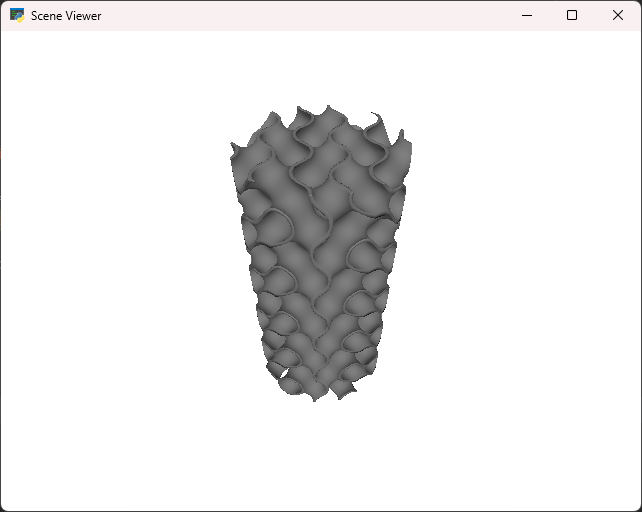
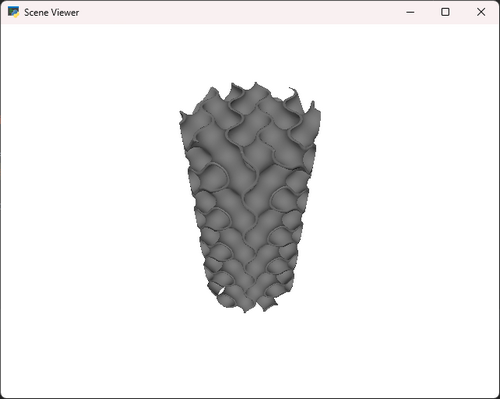
add qrcode tutorial

Changed region(s): [[0.0, 0.0, 1.0, 1.0], [0.06, 0.0301, 0.15, 0.0602]]

diff --git a/tutorial/qrcode.py b/tutorial/qrcode.py
@@ -1,0 +1,74 @@
+import matplotlib.pyplot as plt
+import numpy as np
+from voxelator.convertors import voxel2trimesh, trimesh2stl, img2voxel
+from voxelator.operators import padding, blur
+from voxelator.display import display_trimesh
+from jsonargparse import CLI
+from typing import Optional
+import os.path as path
+import trimesh
+
+def qrcode2stl(
+    img_filepath: str,
+    stl_black: Optional[str] = None,
+    stl_white: Optional[str] = None,
+    size: float = -1.0,
+    depth: float = 0.6,
+    gap: float = 0.2,
+    plate_black: bool = False,
+    plate_depth: float = 1.4,
+    verbose: bool = False
+):
+    """
+    create a physical (stl) qrcode from an image. Assume the QRCode is black over white background.
+    size: size o the biggest side in stl unit (mm). If -1, assume image is 96 px/inch
+    depth: depth in stl unit (mm)
+    gap: size of the gap between white and black mesh in stl unit (mm)
+    """
+    voxel_grid = img2voxel(img_filepath)
+    image_size_voxels = voxel_grid.shape
+    if stl_black is None:
+        stl_black = path.splitext(img_filepath)[0] + '_w.stl'
+    if stl_white is None:
+        stl_white = path.splitext(img_filepath)[0] + '_b.stl'
+    if size < 0:
+        # guess size from image definition assuming 4 pixel / mm
+        size = image_size_voxels[0] / 4.
+
+    # compute voxel / mm scale
+    if image_size_voxels[0] >= image_size_voxels[1]:
+        voxel_per_mm = image_size_voxels[0]/size
+    if image_size_voxels[0] < image_size_voxels[1]:
+        voxel_per_mm = image_size_voxels[1]/size
+    # compute depth in voxels
+    depth_voxel = int(np.ceil(depth * voxel_per_mm))
+    depth_voxel = depth_voxel - depth_voxel % 2  # make it even number
+    if depth_voxel < 1:
+        raise ValueError('depth should be positive')
+    gap_voxel = int(np.ceil(gap * voxel_per_mm))
+    voxel_grid = np.concatenate([voxel_grid] * depth_voxel, axis=2)
+    if plate_depth > 0:
+        # 1 = white 0 = black
+        plate = np.empty((image_size_voxels[0], image_size_voxels[1], int(plate_depth*voxel_per_mm)))
+        plate.fill(0. if plate_black else 1.0)
+        voxel_grid = np.concatenate([plate, voxel_grid], axis=2)
+    voxel_grid = blur(voxel_grid=voxel_grid, size=gap_voxel * 2)
+
+    voxel_grid_black = padding(1.0 - voxel_grid, padding_size=1, padding_value=1.0)
+    mesh_black = voxel2trimesh(voxel_grid_black, level=0.25)
+    voxel_grid_white = padding(voxel_grid, padding_size=1, padding_value=1.0)
+    mesh_white = voxel2trimesh(voxel_grid_white, level=0.25)
+    trimesh2stl(stl_black, mesh_black, scale=1./voxel_per_mm)
+    trimesh2stl(stl_white, mesh_white, scale=1./voxel_per_mm)
+    if verbose:
+        all_mesh = trimesh.util.concatenate([mesh_black, mesh_white])
+        display_trimesh(all_mesh)
+
+
+def qrcode_cli():
+    CLI(qrcode2stl)
+
+
+if __name__ == '__main__':
+    qrcode_cli()
+

diff --git a/voxelator/convertors.py b/voxelator/convertors.py
@@ -1,22 +1,24 @@
+import matplotlib.pyplot as plt
 import numpy as np
 import skimage
-from typing import Tuple
+from typing import Tuple, Optional
 import trimesh
-# import open3d as o3d
-from rich.progress import track
+from PIL import Image, ImageOps
 
 
 def voxel2trimesh(
         voxel_grid: np.ndarray,
         level: float = 0.0,
         scale: float = 1.0,
-        center: bool = True
+        center: bool = False
 ) -> Tuple:
-    # Use marching cubes to obtain the surface mesh
+    """
+    Convert a voxel grid to a mesh (vertices, faces, normals)
+    It uses marching cubes algorithm to obtain the surface mesh.
+    """
     vertices, faces, normals, _ = skimage.measure.marching_cubes(
         voxel_grid,
-        level=level,
-        spacing=(1, 1, 1)
+        level=level
     )
 
     # apply scale
@@ -27,16 +29,14 @@ def voxel2trimesh(
     return mesh
 
 
-# def trimesh2o3d(
-#         mesh
-# ):
-#     # Convert to Open3D mesh
-#     o3d_mesh = o3d.geometry.TriangleMesh()
-#     o3d_mesh.vertices = o3d.utility.Vector3dVector(mesh.vertices)
-#     o3d_mesh.triangles = o3d.utility.Vector3iVector(mesh.faces)
-#     # Optionally, compute vertex normals for better visualization
-#     o3d_mesh.compute_vertex_normals()
-#     return o3d_mesh
+def img2voxel(
+    img_filepath: str
+):
+    img = Image.open(img_filepath)
+    img = ImageOps.grayscale(img)
+    voxel_grid = np.array(img).astype(float) / 255.
+    voxel_grid = np.expand_dims(voxel_grid, axis=2)
+    return voxel_grid
 
 
 def trimesh2stl(

diff --git a/voxelator/arr2stl.py b/voxelator/arr2stl.py
@@ -1,0 +1,43 @@
+import numpy as np
+from voxelator.operators import padding
+from voxelator.convertors import voxel2trimesh, trimesh2stl, img2voxel
+from voxelator.display import display_trimesh
+from jsonargparse import CLI
+from typing import Optional
+import os.path as path
+
+
+def arr2stl(
+    arr_filepath: str,
+    stl_filepath: Optional[str] = None,
+    level: float = 0.5,
+    scale: float = 1.0,
+    background: Optional[float] = 0.1,
+    verbose: bool = False
+):
+    if stl_filepath is None:
+        stl_filepath = path.splitext(arr_filepath)[0] + '.stl'
+    input_ext = path.splitext(arr_filepath)[1].lower()
+    voxel_grid = None
+    if input_ext == '.png':
+        voxel_grid = img2voxel(arr_filepath)
+    if input_ext == '.npy':
+        voxel_grid = np.load(voxel_grid)
+    if background is not None:
+        background = np.ones_like(voxel_grid) * float(background)
+        voxel_grid = np.concatenate([background, voxel_grid], axis=2)
+
+    voxel_grid = padding(voxel_grid, padding_size=1, padding_value=2.0)
+    mesh = voxel2trimesh(voxel_grid, level=level, scale=(1, 1, scale))
+    trimesh2stl(stl_filepath, mesh)
+    if verbose:
+        display_trimesh(mesh)
+
+
+def arr2stl_cli():
+    CLI(arr2stl)
+
+
+if __name__ == '__main__':
+    arr2stl_cli()
+

diff --git a/tutorial/totem.py b/tutorial/totem.py
@@ -13,7 +13,8 @@ def create_totem(
     stl: Optional[str] = None,
     radius_mm: float = 50.,
     definition: int = 100,
-    thickness: float = 0.4
+    thickness: float = 0.4,
+    verbose: bool = False
 ):
     grid_size = np.array([1, 1, 2]) * definition + 1
     gyroid_shift = 0, np.pi/2, 0
@@ -28,7 +29,7 @@ def create_totem(
     mesh = mesh.intersection(cylinder)
     if stl is not None:
         trimesh2stl(stl, mesh)
-    if stl is None:
+    if verbose:
         display_trimesh(mesh)
 
 

diff --git a/voxelator/operators.py b/voxelator/operators.py
@@ -1,4 +1,5 @@
 import numpy as np
+import scipy
 from typing import Tuple, Union
 
 
@@ -15,3 +16,16 @@ def sigmoid(
     voxel_grid
 ):
     return 1. / (1. + np.exp(-voxel_grid))
+
+
+def blur(
+    voxel_grid: np.ndarray,
+    size: int = 10
+):
+    k = np.ones(size) / size
+    # Convolve over all three axes in a for loop
+    voxel_grid = voxel_grid.copy()
+    for i in range(3):
+        voxel_grid = scipy.ndimage.convolve1d(voxel_grid, k, axis=i)
+
+    return voxel_grid

diff --git a/tutorial/sponge.py b/tutorial/sponge.py
@@ -14,7 +14,7 @@ def create_sponge(
     radius: float = 50.,
     definition: int = 100,
     thickness: float = 0.3,
-    display: bool = True
+    verbose: bool = False
 ):
     grid_size = np.array([1, 1, 1]) * definition + 1
     gyroid_shift = 0, np.pi/2, 0
@@ -31,7 +31,7 @@ def create_sponge(
     mesh = mesh.intersection(sphere)
     if stl is not None:
         trimesh2stl(stl, mesh)
-    if display:
+    if verbose:
         display_trimesh(mesh)
 
 
